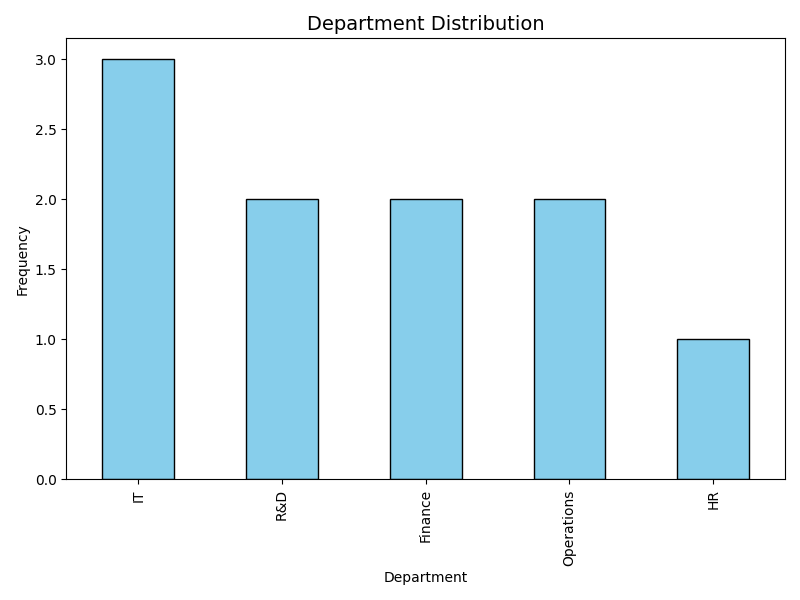
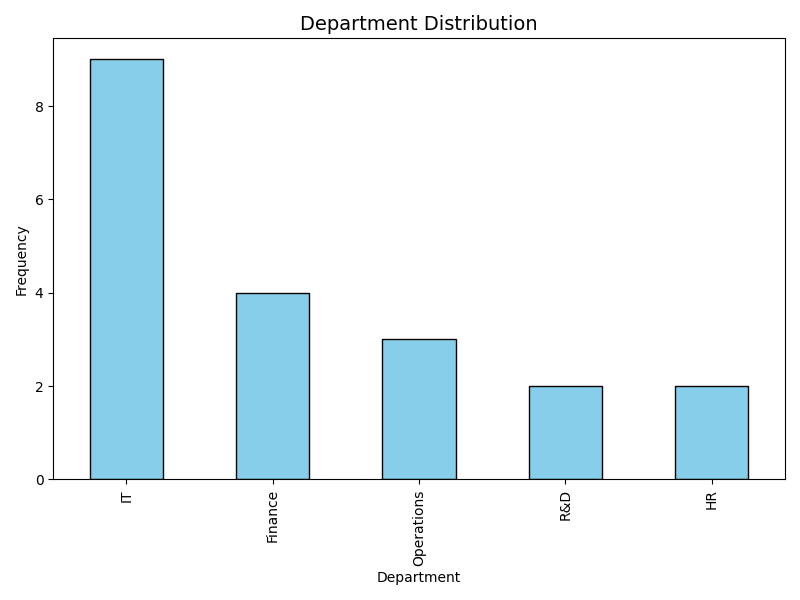
print frequency

diff --git a/employee_analysis.html b/employee_analysis.html
@@ -1,1 +1,1 @@
-<html><body><h2>Employee Department Analysis</h2><p>Email: 23f3003411@ds.study.iitm.ac.in</p><p>Frequency count of IT department: 3</p><img src="histogram.png" width="600"></body></html>
+<html><body><h2>Employee Department Analysis</h2><p>Email: 23f3003411@ds.study.iitm.ac.in</p><p>Frequency count of IT department: <b>9</b></p><img src="histogram.png" width="500"></body></html>

diff --git a/employee_performance.py b/employee_performance.py
@@ -3,8 +3,9 @@
 
 import pandas as pd
 import matplotlib.pyplot as plt
+from io import StringIO
 
-# Sample dataset (100 rows ideally, but using a few for demo)
+# 🔹 Sample dataset (expandable to 100 rows if needed)
 data = """employee_id,department,region,performance_score,years_experience,satisfaction_rating
 EMP001,R&D,North America,76.99,6,3.8
 EMP002,Finance,Africa,71.8,10,3.8
@@ -16,32 +17,39 @@ EMP007,Finance,Asia,82.10,11,4.0
 EMP008,HR,North America,74.30,8,3.7
 EMP009,IT,Asia,91.20,9,4.3
 EMP010,R&D,Europe,88.75,12,4.5
+EMP011,IT,North America,72.15,6,3.6
+EMP012,IT,Africa,85.00,10,4.1
+EMP013,Finance,Europe,67.55,5,3.4
+EMP014,IT,Asia,79.30,13,4.2
+EMP015,HR,Latin America,82.45,9,4.0
+EMP016,Operations,North America,90.60,7,3.9
+EMP017,IT,Europe,75.50,8,3.8
+EMP018,Finance,Asia,86.20,15,4.3
+EMP019,IT,Latin America,88.10,11,4.4
+EMP020,IT,Europe,81.25,12,4.1
 """
 
 # Load into DataFrame
-from io import StringIO
 df = pd.read_csv(StringIO(data))
 
-# Frequency count of IT department
+# 🔹 Frequency count of IT department
 it_count = df[df['department'] == 'IT'].shape[0]
 print("Frequency count of IT department:", it_count)
 
-# Histogram of department distribution
+# 🔹 Histogram of department distribution
 plt.figure(figsize=(8,6))
 df['department'].value_counts().plot(kind='bar', color='skyblue', edgecolor='black')
 plt.title("Department Distribution", fontsize=14)
 plt.xlabel("Department")
 plt.ylabel("Frequency")
 plt.tight_layout()
-
-# Save plot
 plt.savefig("histogram.png")
 
-# Save to HTML with embedded image
+# 🔹 Save results into HTML
 with open("employee_analysis.html", "w") as f:
     f.write("<html><body>")
     f.write("<h2>Employee Department Analysis</h2>")
-    f.write(f"<p>Email: 23f3003411@ds.study.iitm.ac.in</p>")
-    f.write(f"<p>Frequency count of IT department: {it_count}</p>")
-    f.write('<img src="histogram.png" width="600">')
+    f.write("<p>Email: 23f3003411@ds.study.iitm.ac.in</p>")
+    f.write(f"<p>Frequency count of IT department: <b>{it_count}</b></p>")
+    f.write('<img src="histogram.png" width="500">')
     f.write("</body></html>")
